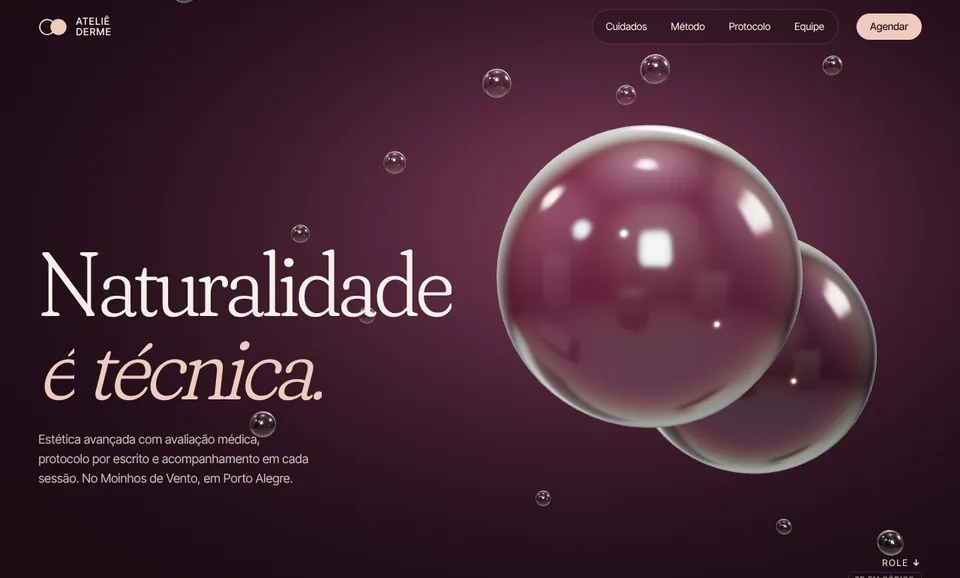
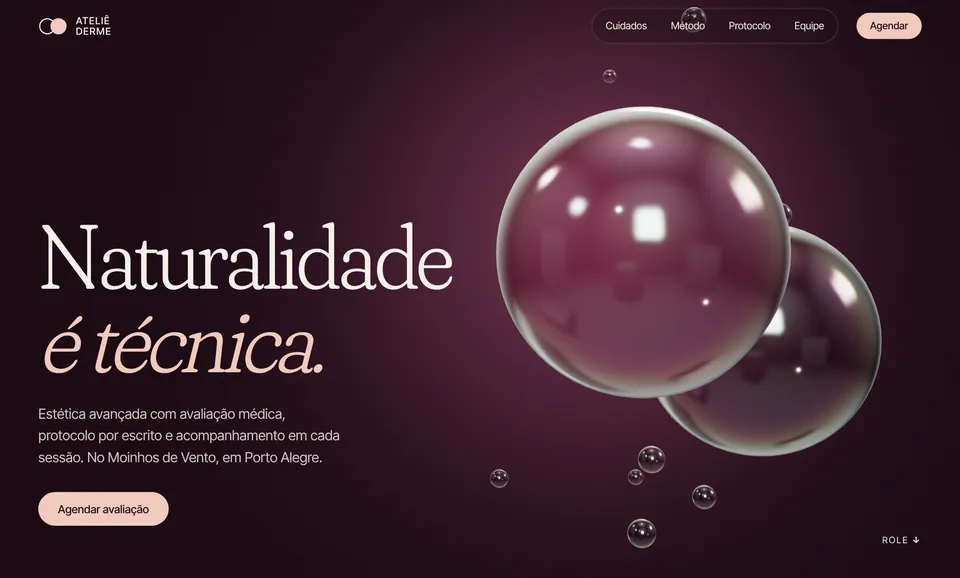
feat: capas da página inicial atualizadas com a versão final dos 3 showcases
Claude-Session: https://claude.ai/code/session_01Wt2tzLRQ8rYmbmsAovnkw1

diff --git a/README.md b/README.md
@@ -66,3 +66,7 @@ O 3D de verdade entra no primeiro gesto (rolar, tocar, mexer o mouse) e aparece 
 e a nota de desempenho do Google fica alta, porque o teste dele não interage com a página.
 
 Mexeu numa cena 3D? Gera as imagens de novo: `npx vite build && npx vite preview --port 4173` e, em outro terminal, `node tools/posters.mjs`.
+
+## Capas da página inicial
+
+As capas dos cards da página inicial (`public/capas/*.webp`) são prints da abertura de cada showcase no PC, com o 3D carregado. Mudou a abertura de algum? Com o preview rodando, `node tools/capas.mjs` (ou `ONLY=estetica node tools/capas.mjs` pra refazer uma só).
